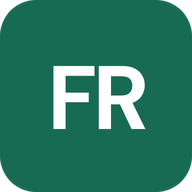
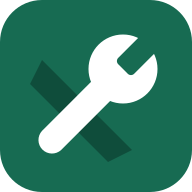
Changes

diff --git a/src/components/logo.tsx b/src/components/logo.tsx
@@ -1,11 +1,52 @@
+import { useId } from "react";
 import { cn } from "@/lib/utils";
 
-/** The FixRight wordmark: "Fix" in text colour, "Right" in brand green. `onInk` for dark footer surfaces. */
-export function Logo({ className, onInk = false }: { className?: string; onInk?: boolean }) {
+/** FixRight mark: green rounded square, deep-green diagonal tool, white wrench. Same art as public/favicon.svg. */
+export function LogoMark({ className }: { className?: string }) {
+  const id = useId().replace(/:/g, "");
   return (
-    <span className={cn("whitespace-nowrap font-bold tracking-[-0.035em]", className)}>
-      <span className={onInk ? "text-ink-foreground" : "text-foreground"}>Fix</span>
-      <span className={onInk ? "text-ink-brand" : "text-primary"}>Right</span>
+    <svg viewBox="0 0 64 64" aria-hidden className={cn("h-[1.25em] w-[1.25em] shrink-0", className)}>
+      <defs>
+        <mask id={`n${id}`}>
+          <rect width="64" height="64" fill="#fff" />
+          <rect x="41" y="19.25" width="14" height="7.5" rx="1.5" transform="rotate(-45 41 23)" fill="#000" />
+        </mask>
+      </defs>
+      <rect width="64" height="64" rx="14" fill="#176B52" />
+      <path d="M14 20 L44 50 L36 54 L10 28 Z" fill="#0F4D3B" />
+      <g fill="#fff" mask={`url(#n${id})`}>
+        <circle cx="41" cy="23" r="11.5" />
+      </g>
+      <path
+        d="M15.3 44.8 L33.5 26.6 L37.4 30.5 L19.2 48.7 A2.76 2.76 0 0 1 15.3 44.8 Z"
+        fill="#fff"
+        stroke="#fff"
+        strokeWidth="3.5"
+        strokeLinejoin="round"
+      />
+    </svg>
+  );
+}
+
+/** The single FixRight logo. `iconOnly` hides the wordmark; `onInk` for the dark footer. Size via font-size. */
+export function Logo({
+  className,
+  onInk = false,
+  iconOnly = false,
+}: {
+  className?: string;
+  onInk?: boolean;
+  iconOnly?: boolean;
+}) {
+  return (
+    <span className={cn("inline-flex items-center gap-[0.4em] whitespace-nowrap font-bold tracking-[-0.035em]", className)}>
+      <LogoMark />
+      {!iconOnly && (
+        <span>
+          <span className={onInk ? "text-ink-foreground" : "text-foreground"}>Fix</span>
+          <span className={onInk ? "text-ink-brand" : "text-primary"}>Right</span>
+        </span>
+      )}
     </span>
   );
 }

diff --git a/src/routes/__root.tsx b/src/routes/__root.tsx
@@ -83,11 +83,11 @@ export const Route = createRootRouteWithContext<{ queryClient: QueryClient }>()(
       { charSet: "utf-8" },
       { name: "viewport", content: "width=device-width, initial-scale=1" },
       { name: "theme-color", content: "#176B52" },
-      { title: "FixRight — Repair booking for Nigerian homes" },
+      { title: "FixRight — Find someone who can fix it." },
       {
         name: "description",
         content:
-          "FixRight connects customers with nearby available repair technicians for appliances, generators and electronics.",
+          "FixRight connects you with verified technicians who cover your area. Tell us what needs fixing, choose when you're available, and book the repair.",
       },
       { property: "og:type", content: "website" },
       { name: "twitter:card", content: "summary_large_image" },
@@ -95,7 +95,9 @@ export const Route = createRootRouteWithContext<{ queryClient: QueryClient }>()(
     links: [
       { rel: "stylesheet", href: appCss },
       { rel: "icon", href: "/favicon.svg", type: "image/svg+xml" },
-      { rel: "icon", href: "/favicon.ico", sizes: "48x48" },
+      { rel: "icon", href: "/icon-32.png", sizes: "32x32", type: "image/png" },
+      { rel: "icon", href: "/favicon.ico", sizes: "16x16 32x32 48x48" },
+      { rel: "icon", href: "/icon-192.png", sizes: "192x192", type: "image/png" },
       { rel: "apple-touch-icon", href: "/apple-touch-icon.png" },
       { rel: "preconnect", href: "https://fonts.googleapis.com" },
       { rel: "preconnect", href: "https://fonts.gstatic.com", crossOrigin: "anonymous" },

diff --git a/src/components/site-footer.tsx b/src/components/site-footer.tsx
@@ -49,6 +49,9 @@ export function SiteFooter() {
         <div className="flex flex-col gap-8 md:flex-row md:items-end md:justify-between">
           <div>
             <Logo onInk className="text-2xl" />
+            <p className="mt-3 text-[11px] font-medium uppercase tracking-[0.3em] text-ink-muted">
+              Find someone who can fix it.
+            </p>
             <p className="mt-6 text-3xl font-bold leading-tight tracking-tight sm:text-4xl">
               Something broken?
               <br />
